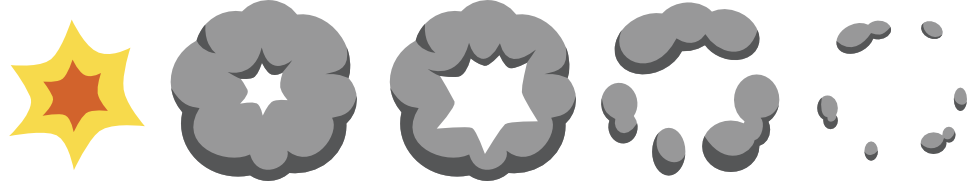
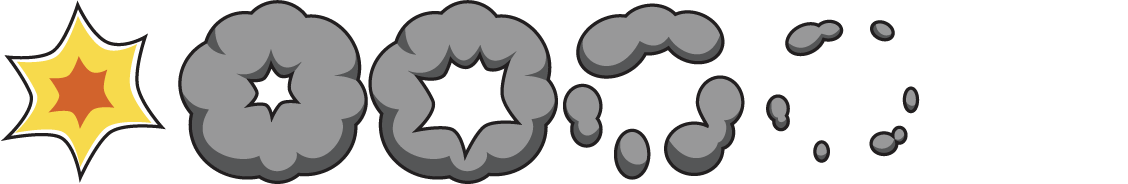
Mejoradas explosiones y monedas..intento de circle body

diff --git a/ParachuteAction/src/com/lucianosimo/parachuteaction/scene/GameScene.java b/ParachuteAction/src/com/lucianosimo/parachuteaction/scene/GameScene.java
@@ -680,8 +680,8 @@ public class GameScene extends BaseScene{
 										this.setVisible(false);
 										explosion.setPosition(helicopterRef.getX(),helicopterRef.getY());
 										explosion.setVisible(true);
-										final long[] EXPLOSION_ANIMATE = new long[] {120, 120, 120, 120, 120};
-										explosion.animate(EXPLOSION_ANIMATE, 0, 4, false);
+										final long[] EXPLOSION_ANIMATE = new long[] {100, 100, 100, 100, 100, 100};
+										explosion.animate(EXPLOSION_ANIMATE, 0, 5, false);
 										destroyBodyWithSprite(helicopterRef);										
 									}									
 								}
@@ -709,8 +709,8 @@ public class GameScene extends BaseScene{
 										this.setVisible(false);
 										explosion.setPosition(helicopterRef.getX(),helicopterRef.getY());
 										explosion.setVisible(true);
-										final long[] EXPLOSION_ANIMATE = new long[] {120, 120, 120, 120, 120};
-										explosion.animate(EXPLOSION_ANIMATE, 0, 4, false);
+										final long[] EXPLOSION_ANIMATE = new long[] {100, 100, 100, 100, 100, 100};
+										explosion.animate(EXPLOSION_ANIMATE, 0, 5, false);
 										destroyBodyWithSprite(helicopterRef);
 									}									
 								}
@@ -764,8 +764,8 @@ public class GameScene extends BaseScene{
 										this.setVisible(false);
 										explosion.setPosition(balloonRef.getX(),balloonRef.getY());
 										explosion.setVisible(true);
-										final long[] EXPLOSION_ANIMATE = new long[] {120, 120, 120, 120, 120};
-										explosion.animate(EXPLOSION_ANIMATE, 0, 4, false);
+										final long[] EXPLOSION_ANIMATE = new long[] {100, 100, 100, 100, 100, 100};
+										explosion.animate(EXPLOSION_ANIMATE, 0, 5, false);
 										destroyBodyWithSprite(balloonRef);
 									}									
 								}
@@ -810,6 +810,11 @@ public class GameScene extends BaseScene{
 										altimeterText.setText("Meters to go: " + distanceToFloor);
 										if (player.getFallVelocity() < 0) {
 											fliedMeters = fliedMeters + (oldDistanceToFloor - distanceToFloor);
+										}
+										if (distanceToFloor < 1500 && distanceToFloor > 1000 && !openParachute) {
+											openButton.setVisible(true);
+										} else {
+											openButton.setVisible(false);
 										}
 										if (openParachute) {
 											parachute.setVisible(true);

diff --git a/ParachuteAction/src/com/lucianosimo/parachuteaction/object/Balloon.java b/ParachuteAction/src/com/lucianosimo/parachuteaction/object/Balloon.java
@@ -19,11 +19,13 @@ public class Balloon extends AnimatedSprite{
 	public Balloon(float pX, float pY, VertexBufferObjectManager vbom, Camera camera, PhysicsWorld physicsWorld, ITiledTextureRegion region) {
 		super(pX, pY, region, vbom);
 		//startAnimation();
-		createPhysics(camera, physicsWorld);
+		createPhysics(camera, physicsWorld, region, vbom);
 	}
 	
-	private void createPhysics(final Camera camera, PhysicsWorld physicsWorld) {
+	private void createPhysics(final Camera camera, PhysicsWorld physicsWorld, ITiledTextureRegion region, VertexBufferObjectManager vbom) {
 		body = PhysicsFactory.createBoxBody(physicsWorld, this, BodyType.DynamicBody, PhysicsFactory.createFixtureDef(0, 0, 0));
+		//final Sprite myCircleSprite = new Sprite(0, 0, region, vbom);
+		//body = PhysicsFactory.createCircleBody(physicsWorld, myCircleSprite, BodyType.DynamicBody, PhysicsFactory.createFixtureDef(0, 0, 0));
 		body.setFixedRotation(true);
 		body.setUserData("balloon");
 		physicsWorld.registerPhysicsConnector(new PhysicsConnector(this, body, true, false));

diff --git a/ParachuteAction/src/com/lucianosimo/parachuteaction/manager/ResourcesManager.java b/ParachuteAction/src/com/lucianosimo/parachuteaction/manager/ResourcesManager.java
@@ -370,7 +370,7 @@ public class ResourcesManager {
 		
 		//Animated texture objects
 		player_region = BitmapTextureAtlasTextureRegionFactory.createTiledFromAsset(animatedTextureAtlas, activity, "player.png", 4, 1);
-		explosion_region = BitmapTextureAtlasTextureRegionFactory.createTiledFromAsset(animatedTextureAtlas, activity, "explosion.png", 5, 1);
+		explosion_region = BitmapTextureAtlasTextureRegionFactory.createTiledFromAsset(animatedTextureAtlas, activity, "explosion.png", 6, 1);
 		helicopter_region = BitmapTextureAtlasTextureRegionFactory.createTiledFromAsset(animatedTextureAtlas, activity, "helicopter.png", 2, 1);
 		leftHelicopter_region = BitmapTextureAtlasTextureRegionFactory.createTiledFromAsset(animatedTextureAtlas, activity, "leftHelicopter.png", 2, 1);
 		balloon_region = BitmapTextureAtlasTextureRegionFactory.createTiledFromAsset(animatedTextureAtlas, activity, "balloon.png", 2, 1);
